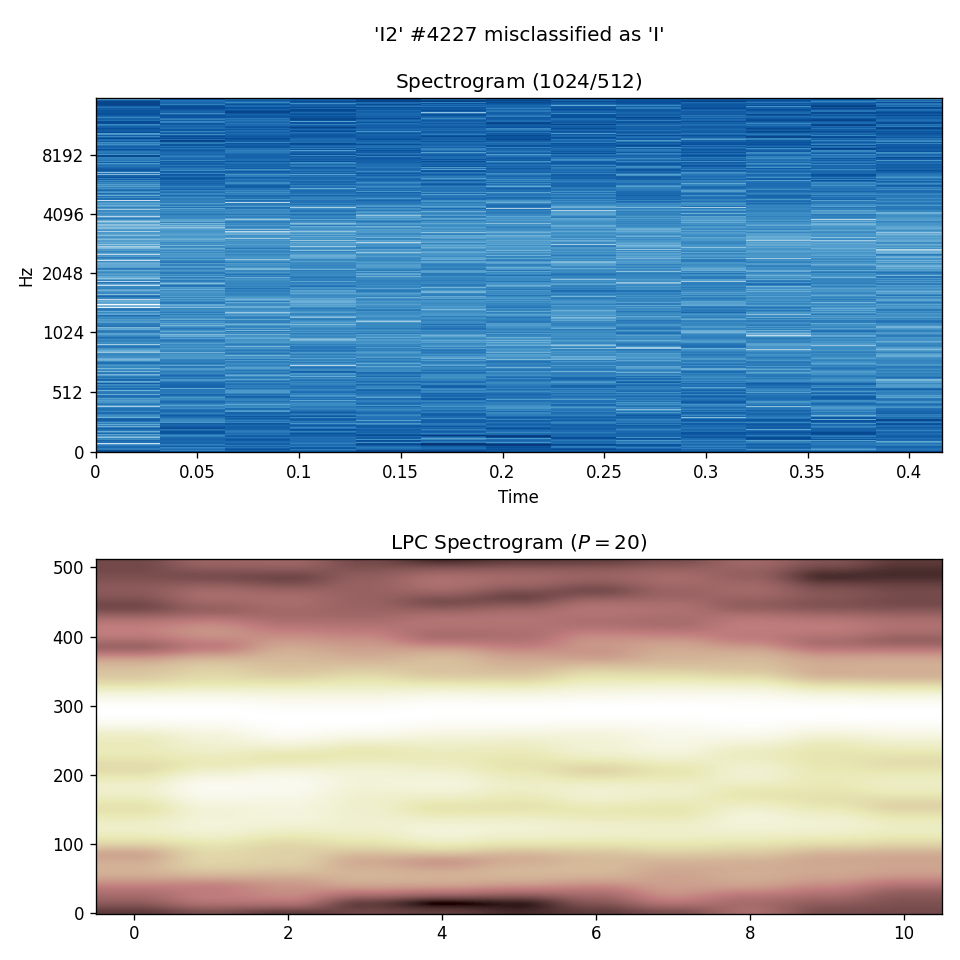
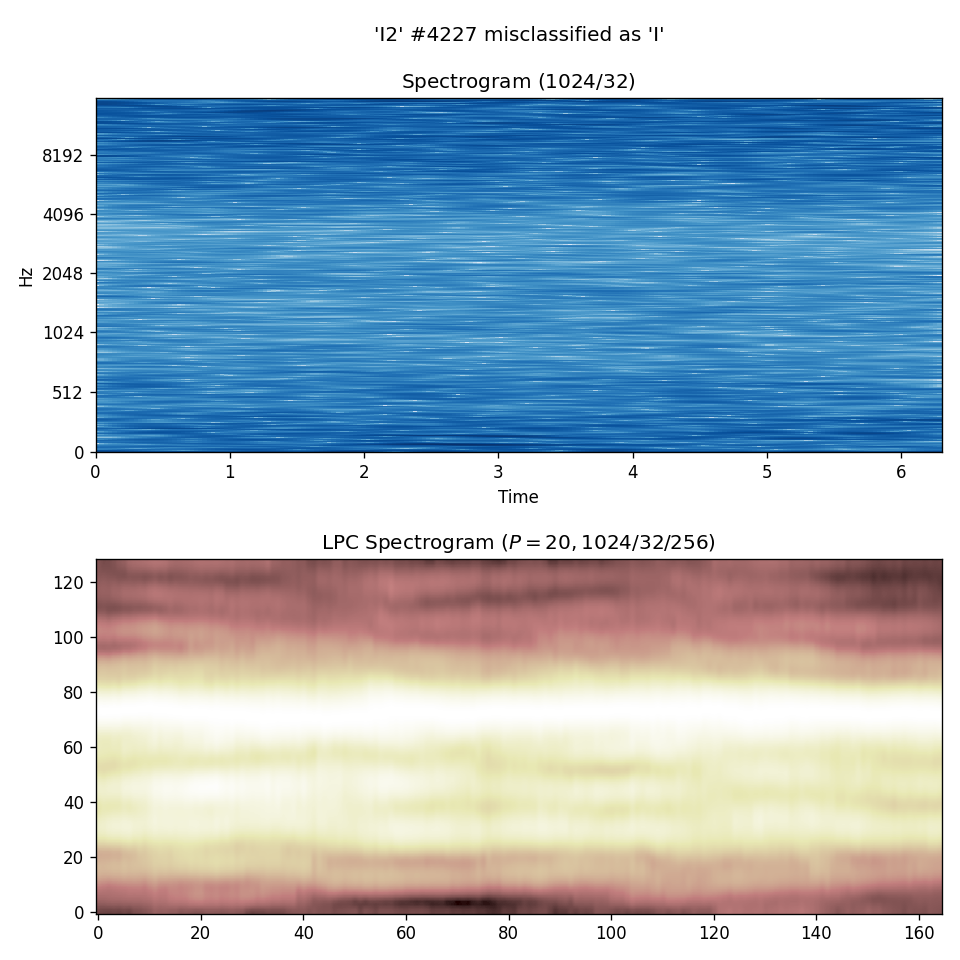
update misclassification spectral plots

diff --git a/README.md b/README.md
@@ -37,6 +37,6 @@ https://github.com/ecoz2/ecoz2-doc/blob/master/exploration/vqhmm-whale.pdf.
 - exerc06: As exerc05c but merging classes "I" and "I2" into a "II" class.
   - [exerc06](exerc06)
 
-## Signal inspection
+## Some signal inspection
 
 See [signal-inspection](signal-inspection).
